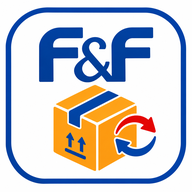
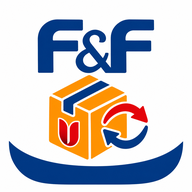
Troca o ícone do app pela nova versão
Claude-Session: https://claude.ai/code/session_01CZFmzHFJSJjWp4VaxFJJDp

diff --git a/index.html b/index.html
@@ -9,9 +9,9 @@
 <meta name="apple-mobile-web-app-capable" content="yes">
 <meta name="apple-mobile-web-app-status-bar-style" content="default">
 <meta name="apple-mobile-web-app-title" content="Estoque FFSP">
-<link rel="manifest" href="manifest.json?v=3">
-<link rel="apple-touch-icon" href="icon-180.png?v=3">
-<link rel="icon" href="icon-192.png?v=3">
+<link rel="manifest" href="manifest.json?v=4">
+<link rel="apple-touch-icon" href="icon-180.png?v=4">
+<link rel="icon" href="icon-192.png?v=4">
 <link rel="stylesheet" href="styles.css">
 <script src="https://cdn.jsdelivr.net/npm/xlsx@0.18.5/dist/xlsx.full.min.js" defer></script>
 </head>

diff --git a/sw.js b/sw.js
@@ -1,5 +1,5 @@
 // Service worker: notificações com o app fechado + funcionamento básico offline
-const CACHE = "estoque-v16";
+const CACHE = "estoque-v17";
 const ARQUIVOS = ["./", "./index.html", "./app.js", "./styles.css", "./config.js", "./manifest.json", "./icon-192.png"];
 
 self.addEventListener("install", (e) => {
